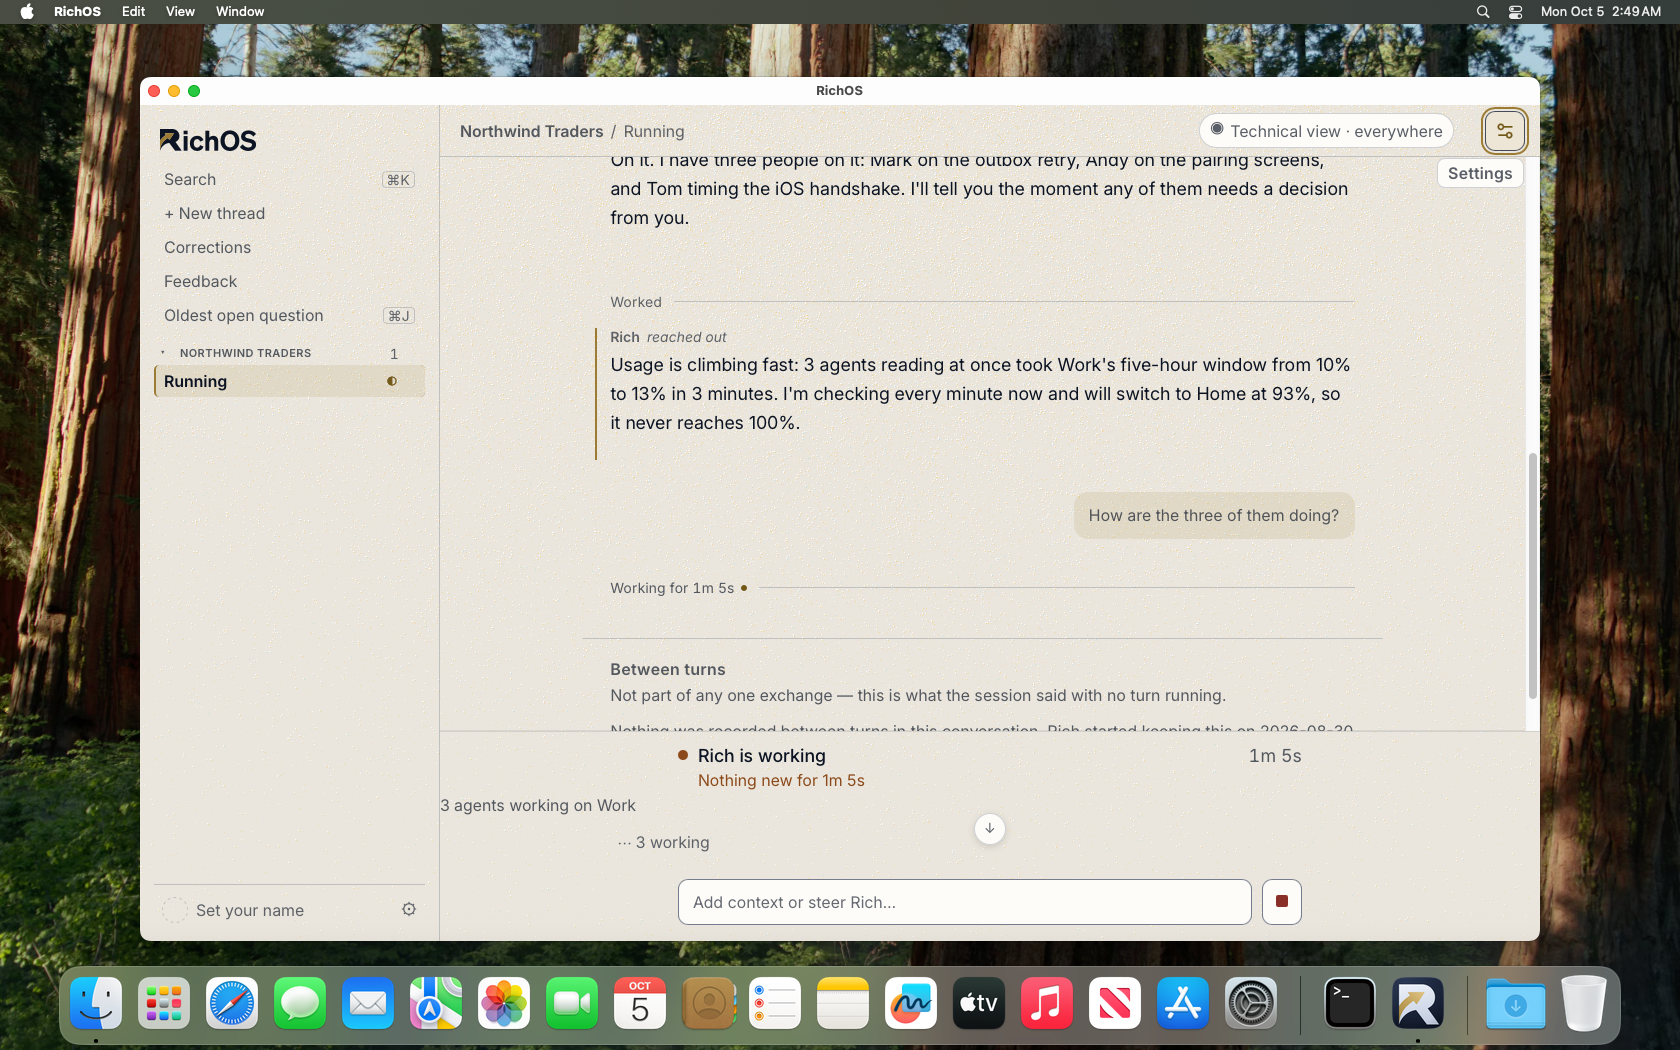
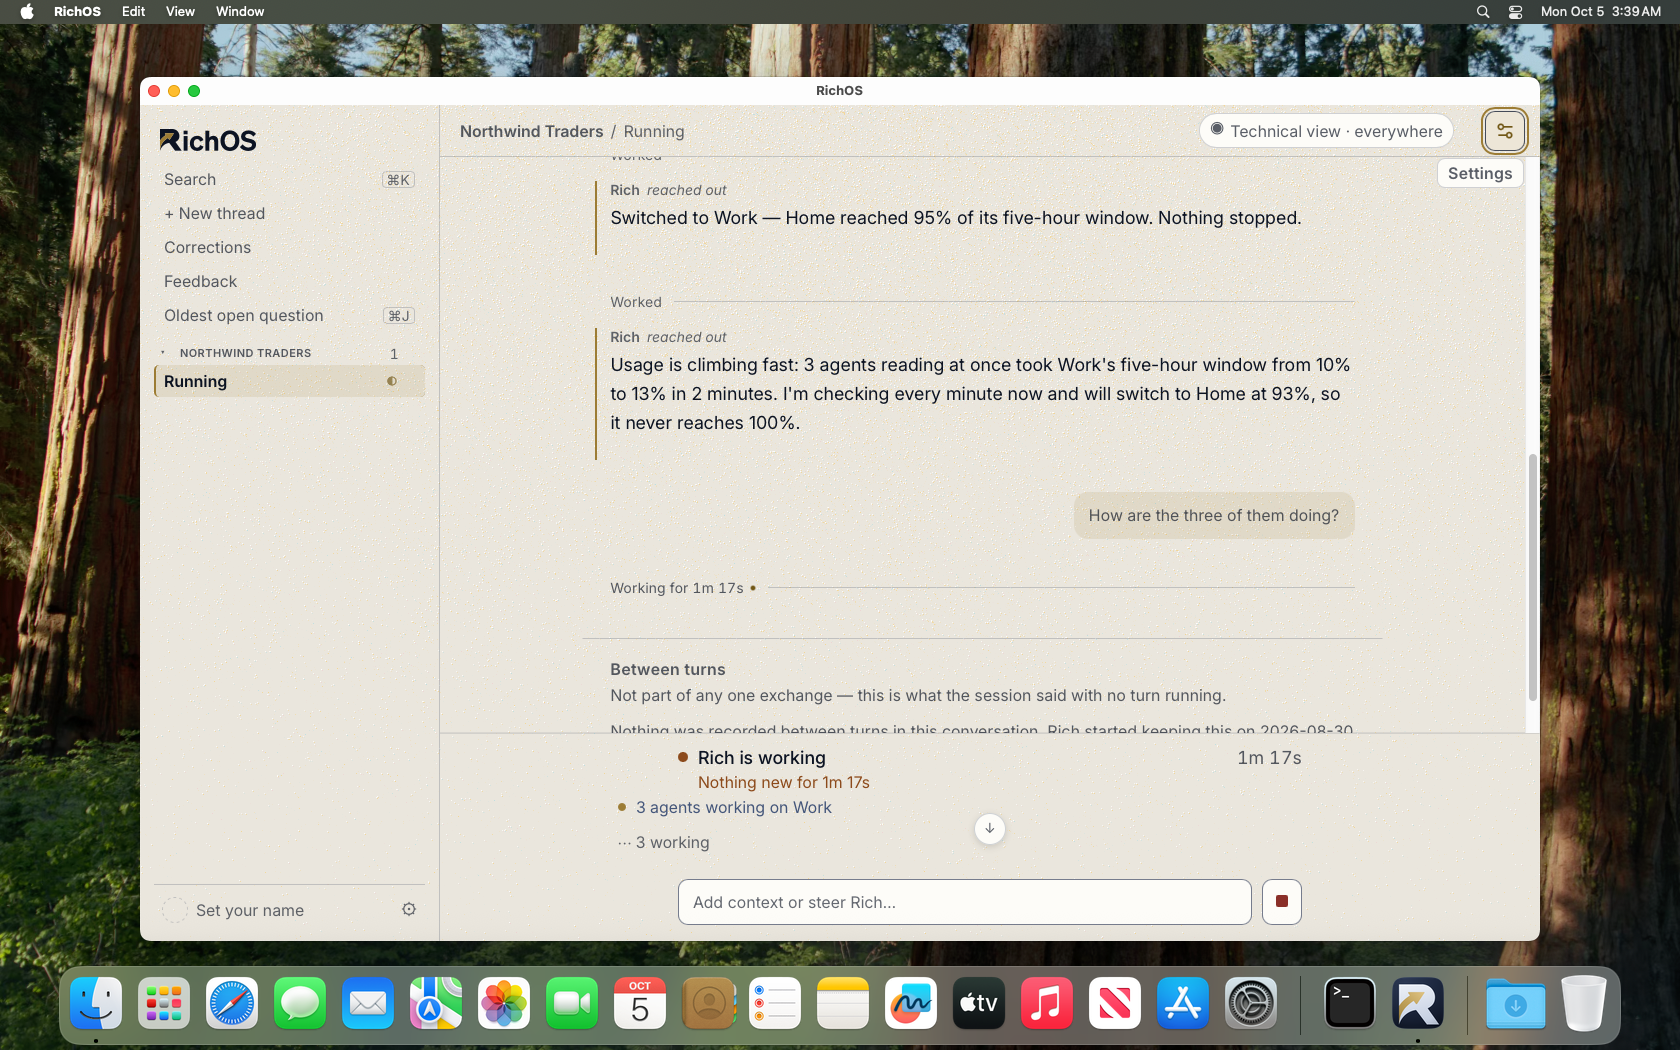
docs/verification: round-16 panel shots 4, 6 and 7 from walk 4, and the hand-off
Walk 4 (walk-e583bad4276f, 03:17:41-03:43:41Z, execution completed, scenario_exit 0,
cleanup_complete true) of the debug app built at 9cbdac8ea, with walk 3's recipe
(now written into HANDOFF.md).

- The working row matches round 16 in shots 4, 6 and 7, dark and light:
  "• 3 agents working on Work" in the message column with the gold dot.
- Shots 6 and 7 now match.
- Shot 4 is still partial for another reason: since main's f2d3ab1c4 the switch
  line is written during the user's turn (spine.rs prepare_request) and drawn only
  after it ends, so the held turn of shot 4 shows the row but not the line; the
  line is at the top of shot 6. Not walked again, per the brief; two ways to close
  it named for the lead.
- Shots 1, 2, 3 and 5 stay walk 3's.

diff --git a/docs/verification/2026-10-04-round16-panel-vm/HANDOFF.md b/docs/verification/2026-10-04-round16-panel-vm/HANDOFF.md
@@ -1,19 +1,42 @@
 # Round-16 quota panel: the real app beside round 16, seven states, dark and light
 
-Branch `cc/echo-opus-panel16d`, workspace `/Users/alex/ab/richos-wt/echo-opus-panel16d`
-(echo-opus-panel16d, 2026-10-05; continues echo-opus-panel16b and echo-opus-panel16c).
+Branch `cc/echo-opus-panel16e`, workspace `/Users/alex/ab/richos-wt/echo-opus-panel16e`
+(echo-opus-panel16e, 2026-10-05; continues echo-opus-panel16d, echo-opus-panel16c and
+echo-opus-panel16b).
 Design: richos-hq `design/mockups/rounds/round-16/` (frozen, read only). Each `N-<state>-dark.png` /
 `-light.png` here is the real app in the test VM; each `N-<state>-round16-*.png` beside it is
 round 16's render of that state.
 
-**Where the shots come from.** Walk 3 (`walk-5c66807272b3`, 2026-10-05 02:30-02:53Z,
-`execution: completed`, `scenario_exit: 0`, `cleanup_complete: true`), the debug app built at
-`665d0765a` (every app commit on this branch up to then) with the walk fixture of `61e8305e2`.
-No app code changed between that build and this commit's parent.
+**Where the shots come from.** Shots 1, 2, 3 and 5: walk 3 (`walk-5c66807272b3`, 2026-10-05
+02:30-02:53Z, `execution: completed`, `scenario_exit: 0`, `cleanup_complete: true`), the
+debug app built at `665d0765a` with the walk fixture of `61e8305e2`. Shots 4, 6 and 7: walk 4
+(`walk-e583bad4276f`, 2026-10-05 03:17:41-03:43:41Z, `execution: completed`,
+`scenario_exit: 0`, `cleanup_complete: true`), the debug app built at `9cbdac8ea` (the
+working-row fix, on top of main's `f2d3ab1c4` merged at `cb07e092e`).
 
-**Not in these shots: main's `f2d3ab1c4`** ("Switched to" is said only once a turn runs on
-the new account), merged after the walk. With it, shot 4's switch line appears when the
-user's turn starts on Work, not before the user's message.
+**How walk 4's app was built and walked** (walk 3's recipe, taken from echo-opus-panel16d's
+own commands; run from `richos/app`):
+
+```
+cd src-tauri && mkdir -p ../ui-dist
+../scripts/testvm/reserve.py --wait 1800 -- cargo tauri build --debug --bundles app
+ditto -c -k --keepParent <cargo target>/debug/bundle/macos/RichOS.app <scratch>/RichOS.app.zip
+cd ../scripts/testvm && ./reserve.py --wait 1800 -- ./run-walk.py --wait 1800 \
+  --bundle <scratch>/RichOS.app.zip --home <scratch>/home \
+  --engine ~/.richos-nightly/releases/v1.2.0-nightly.20261003.35/richos-engine-1.2.0.tar.gz \
+  --report <scratch>/report.json -- <workspace>/richos/app/scripts/testvm/round16-panel-walk.sh <scratch>/out
+```
+
+`cargo tauri build` exits 1 after the `.app` is bundled: "A public key has been found, but no
+private key. Make sure to set `TAURI_SIGNING_PRIVATE_KEY`", the updater archive's signature,
+which a debug walk build does not need. The `.app` is checked on its own: `build.rs` staged
+`ui/` into `ui-dist/` in the build's minute, and `cmp` finds `ui-dist/style.css` and
+`ui-dist/main.js` identical to `9cbdac8ea`'s.
+
+**Main's `f2d3ab1c4` is in walk 4** ("Switched to" is said only once a turn runs on the new
+account). It changes shot 4: the switch line is no longer above the user's message, and it is
+not on screen during the turn the walk holds open. It is drawn after that turn, in its own
+"Worked" block, at the top of shot 6 (dark and light). See "Open in shot 4" below.
 
 ## The seven states
 
@@ -22,17 +45,32 @@ user's turn starts on Work, not before the user's message.
 | 1 one account | `low` | **Matches.** + Add account beside Refresh (the circular arrow), "Checked … · checks every 5 min", round 16's times, the ruler key with its bold sentence. |
 | 2 two accounts | `two` | **Matches.** Home in use 41% / 28%, Work next at **10% / 20%**, the one sentence with Pause, no scrollbar. Home has no Remove (item 1, kept). |
 | 3 switched sheet | `switched` | **Matches.** Work **in use**, Home past its line at 95% with **no tag** and "week resets Fri", "switch to the next account — none has room now", the card "In use: Work, since …". |
-| 4 switched line | `switched-line` | **Partly.** Rich's line "Switched to Work — Home reached 95% … Nothing stopped.", a turn on Work, the chip "··· 3 working", and the working row "**3 agents working on Work**". **Open:** the row sits at the conversation pane's left edge with no dot; round 16 draws "• 3 agents working on Work" in the message column under Rich's line. |
+| 4 switched line | `switched-line` | **Partly.** The working row now matches: "**• 3 agents working on Work**", round 16's gold dot, in the message column (its dot on the "··· 3 working" chip's edge), over a turn on Work. **Open:** Rich's line "Switched to Work — Home reached 95% … Nothing stopped." is not in this shot. Since `f2d3ab1c4` it is written during this turn and drawn only after it ends (top of shot 6); round 16 draws it above the row. Walk 3's shot 4 (`bb4c50f02`) showed the line, with the row at the pane's edge. |
 | 5 fast sheet | `fast-switch` | **Matches, with one declared difference.** The card says round 16's sentence: "3 agents reading at once took Work's five-hour window from 19% to 28% in 1 minute. The lines moved to 91% and 97% …". The moved lines carry their ghosts ("switch at 91% · was 93%", "switches at 97% · was 99%"), and + Add account and Refresh keep their row. Declared: "every minute" where round 16 says "every 2 min" (the app's measured interval, quota.rs `note_speed`). The sheet scrolls about 24 px because the VM's window is 1400 × 864 pt (the app's log: "derived 1400x864"), while round 16 draws at 1440 × 900. |
-| 6 fast alert | `fast-alert` | **Partly.** Rich's alert "Usage is climbing fast: **3 agents reading at once** took Work's five-hour window from 10% to 13% in 3 minutes …", then a turn with the chip and the working row. **Open:** the same row placement as shot 4. |
-| 7 back to normal | `normal-again` | **Partly.** Rich's line "Usage is back to normal. I'm checking every 5 minutes again, and the lines are back at 93% and 99%.", then a turn with the chip and the working row. **Open:** the same row placement as shot 4. |
+| 6 fast alert | `fast-alert` | **Matches.** Rich's alert "Usage is climbing fast: **3 agents reading at once** took Work's five-hour window from 10% to 13% in 2 minutes …", then a turn with the chip and "• 3 agents working on Work" in the message column. Above it, the switch line from state 4. |
+| 7 back to normal | `normal-again` | **Matches.** Rich's line "Usage is back to normal. I'm checking every 5 minutes again, and the lines are back at 93% and 99%.", then a turn with the chip and "• 3 agents working on Work" in the message column. |
 
-**The one open difference, with its cause.** `#quota-work-status` (`richos/app/ui/style.css`,
-the rule `#quota-work-status { color: var(--ink-soft); font-size: 1rem; margin-bottom: 8px; }`)
-has none of its sibling `#drill-chip-zone`'s column rules (`max-width: var(--reading-width);
-margin: 0 auto; padding: 0 28px 6px`), so it spans the composer zone from the pane's edge. It
-also draws no leading dot. Not changed here: the lead's instruction for this walk was to
-report a remaining difference, not to walk again.
+**The working row, fixed (`9cbdac8ea`).** `#quota-work-status` had none of the message
+column's rules and spanned the composer zone from the pane's edge, with no dot. It now takes
+`#messages`' column (reading width, centered, 28 px sides, stepping to 24 px under 1180 px,
+20 px under 820 px and 18 px in `bp-narrow`) and round 16's `.working-row`: flex, 10 px gap,
+an 8 px gold dot, `--trim-text`. Contrast on `--ground`, computed: text 5.91:1 dark,
+5.90:1 light. **Declared difference:** round 16 breathes the dot's opacity down to .35,
+which is 1.95:1 dark and 1.43:1 light, under the 3:1 a non-text indicator owes. The app keeps
+it at full opacity (7.68:1 dark, 3.15:1 light) and breathes its size, as `.tl-pulse` already
+does. Only the working row has the dot (`data-state`, `main.js`); a paused row has none
+(round 16's hold ring belongs to a holding state, not one of these seven).
+
+**Open in shot 4: Rich's switch line is not on screen during the turn.** Main's `f2d3ab1c4`
+moved the switch notice to `spine.rs` `prepare_request`: `ran_on(account)` then
+`raise_quota_notices`, once the turn's lease is in the chair. So the line is written while
+the turn that released it runs, and the conversation draws it only after that turn ends: in
+walk 4 it is absent from shot 4 (the turn held open, "Working for 41s" and "1m 15s") and
+present in its own "Worked" block at the top of shot 6. Round 16 draws the line and the row
+together. Not changed and not walked again, per the brief. Two ways to close it, neither
+taken here: the walk lets state 4's turn end and shoots the line after it (the row is then
+gone, since it exists only during a turn); or the conversation draws a notice raised during a
+turn at once. Which of these is right is the lead's call.
 
 **Why the row comes with a user turn in shots 4, 6 and 7.** The row and the chip exist only
 while a turn of this conversation runs (`main.rs` `get_worker_status` reads the conversation's
@@ -53,12 +91,17 @@ come from the app's conversation in technical view, not from the panel.
 | 3 | Time and duration formats | **Done**: "Resets in **2 h 42 min** · at 5:27 AM", "resets in **1 d 5 h**", "began **12:27 AM**", "Checked 2 min ago". Shots 1, 2, 3 and 5. |
 | 4 | Fast alert has no agent count | **Done, seen**: "3 agents reading at once took Work's five-hour window from 10% to 13% in 3 minutes" (shot 6), and the same sentence on the sheet's card (shot 5, `8e6b0a169`). |
 | 5 | Every-account-used-up line says time left | **Done in code**, unit-tested (`quota.rs` "Every account is used up. 3 agents are holding their place until …"). Round 16 draws no such state among these seven, and the walk does not exhaust both accounts. |
-| 6 | "N agents working on Work" row | **Done, seen, one open difference**: "3 agents working on Work" in shots 4, 6 and 7, at the pane's edge with no dot (above). |
+| 6 | "N agents working on Work" row | **Done, seen**: "• 3 agents working on Work" in the message column with round 16's dot, in shots 4, 6 and 7, dark and light (`9cbdac8ea`). |
 | 7 | Two-account sheet scrolls in 1400 × 835 | **Done**: no scrollbar in shots 2 and 3; `tests/quota.js` measures it. The fast sheet (shot 5) scrolls about 24 px at 1400 × 864 (above). |
 | 8 | "Signed in. Reading its allowance…" stays | **Done**: no stale line in shot 2. |
 | 9 | Refresh has no icon | **Done**: the circular arrow. Shots 1, 2, 3 and 5. |
 | 10 | Ruler key text | **Done**, round 16's words with the bold second sentence. Shots 1, 2, 3 and 5. |
 | 11 | Five-hour bar past the "now" tick | **Done**: the bar runs past the tick in shots 1 and 2 (round 16's clock), stamps 8 px above "now". |
+
+## Commits on this branch (echo-opus-panel16e)
+
+- `9cbdac8ea` the working row sits in the message column with round 16's dot; `tests/quota.js` measures its text edge against `#messages`' and its dot.
+- This hand-off's commit: walk 4's shots 4, 6 and 7, dark and light.
 
 ## Commits on this branch (echo-opus-panel16d)
 
@@ -81,4 +124,5 @@ report whether company interview tools loaded."). That was a fixture gap, not an
 - `cargo test -p richos-core --lib -- quota claude_accounts`: 73 passed. `--test rotation_tests`: 31 passed (at `665d0765a`, the walked build).
 - After merging main `065021f15`: `--lib -- switch work_host quota claude_accounts`: 155 passed; `--test rotation_tests`: 32 passed. Three switch tests needed the automatic switch on, and two of them round 16's words. One of the three, main's earlier `a_long_background_run_…`, had failed on this branch unseen since an earlier merge, because the old proof filter never selected `work_host`.
 - `scripts/testvm/test/fake-claude-fill-first.test.py`: 9 ok.
-- Walks: walk 1 (echo-opus-panel16c's, `walk-c9dcf2ba1a38`), walk 2 (`walk-2b34a9ca8b95`) and walk 3 (`walk-5c66807272b3`); each report says `cleanup_complete: true`.
+- Walks: walk 1 (echo-opus-panel16c's, `walk-c9dcf2ba1a38`), walk 2 (`walk-2b34a9ca8b95`), walk 3 (`walk-5c66807272b3`) and walk 4 (echo-opus-panel16e's, `walk-e583bad4276f`); each report says `cleanup_complete: true`.
+- At `9cbdac8ea`: `node ui/tests/quota.js`: 26 PASS, 0 FAIL. Its first run failed only the new check, which caught the row's text 4 px right of the message text at the test's 820-1179 px viewport (28 px sides against `#messages`' 24 px there). Fixed, then the one re-run.
